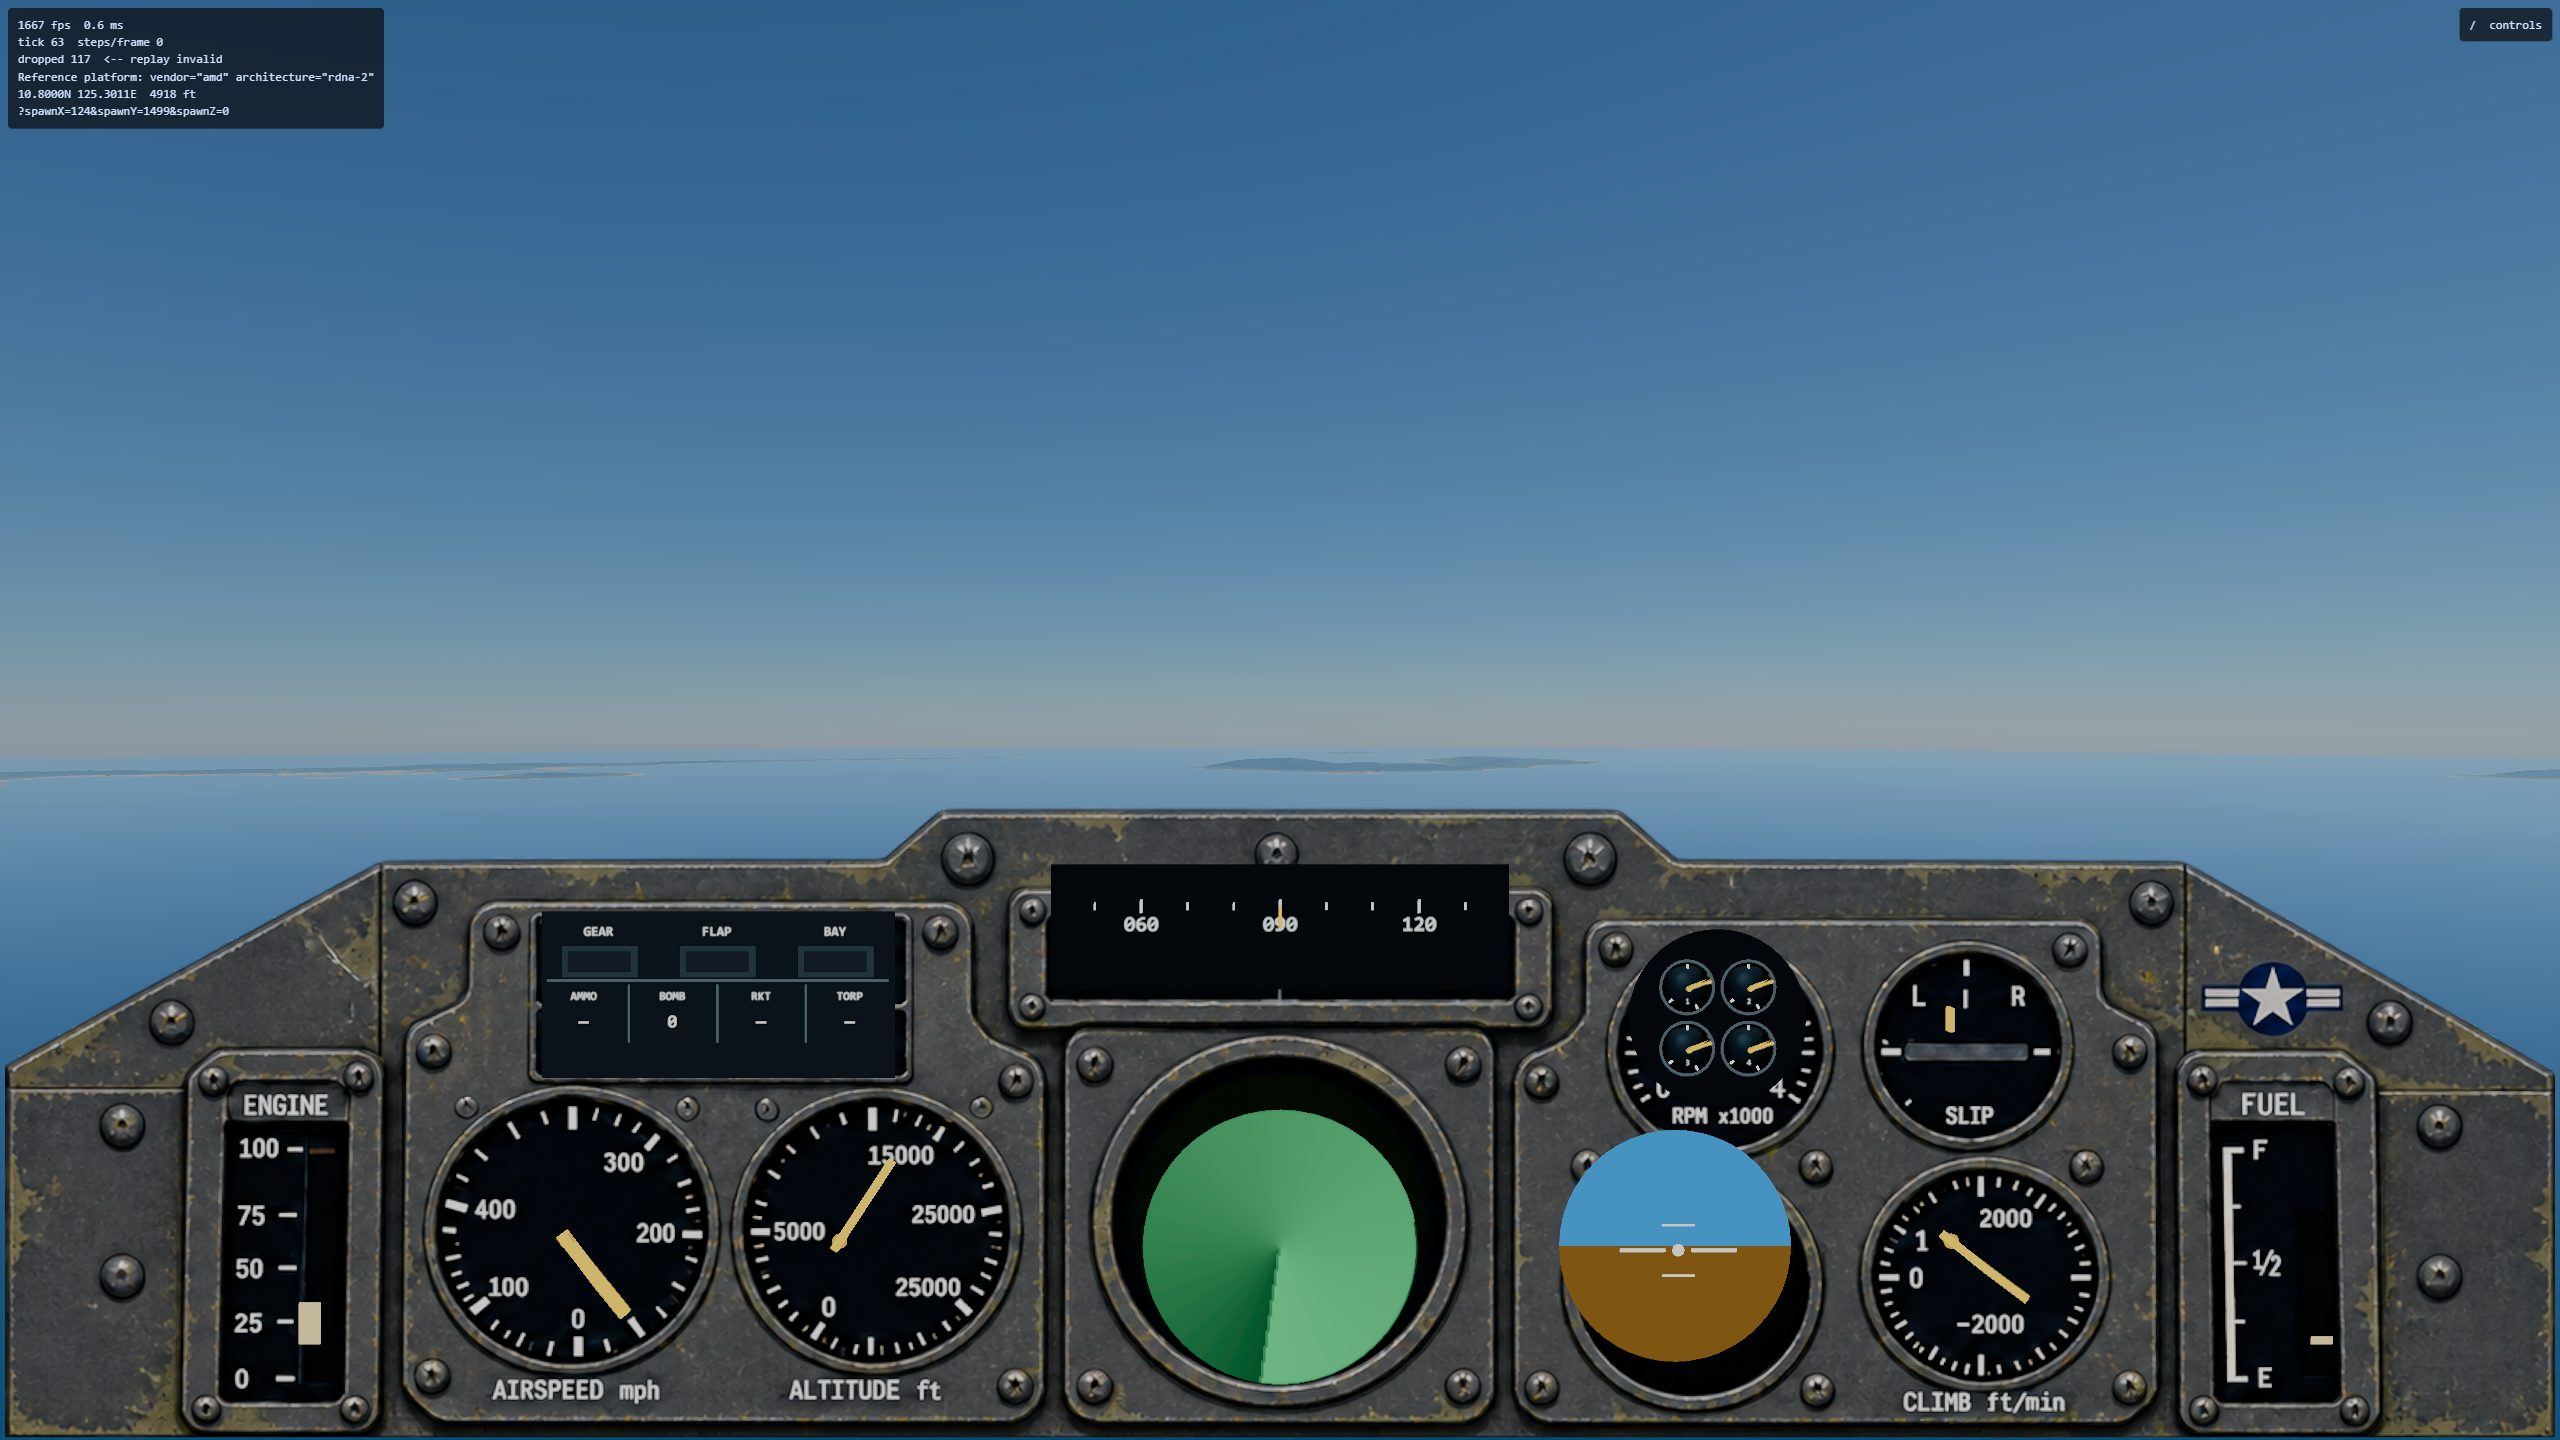
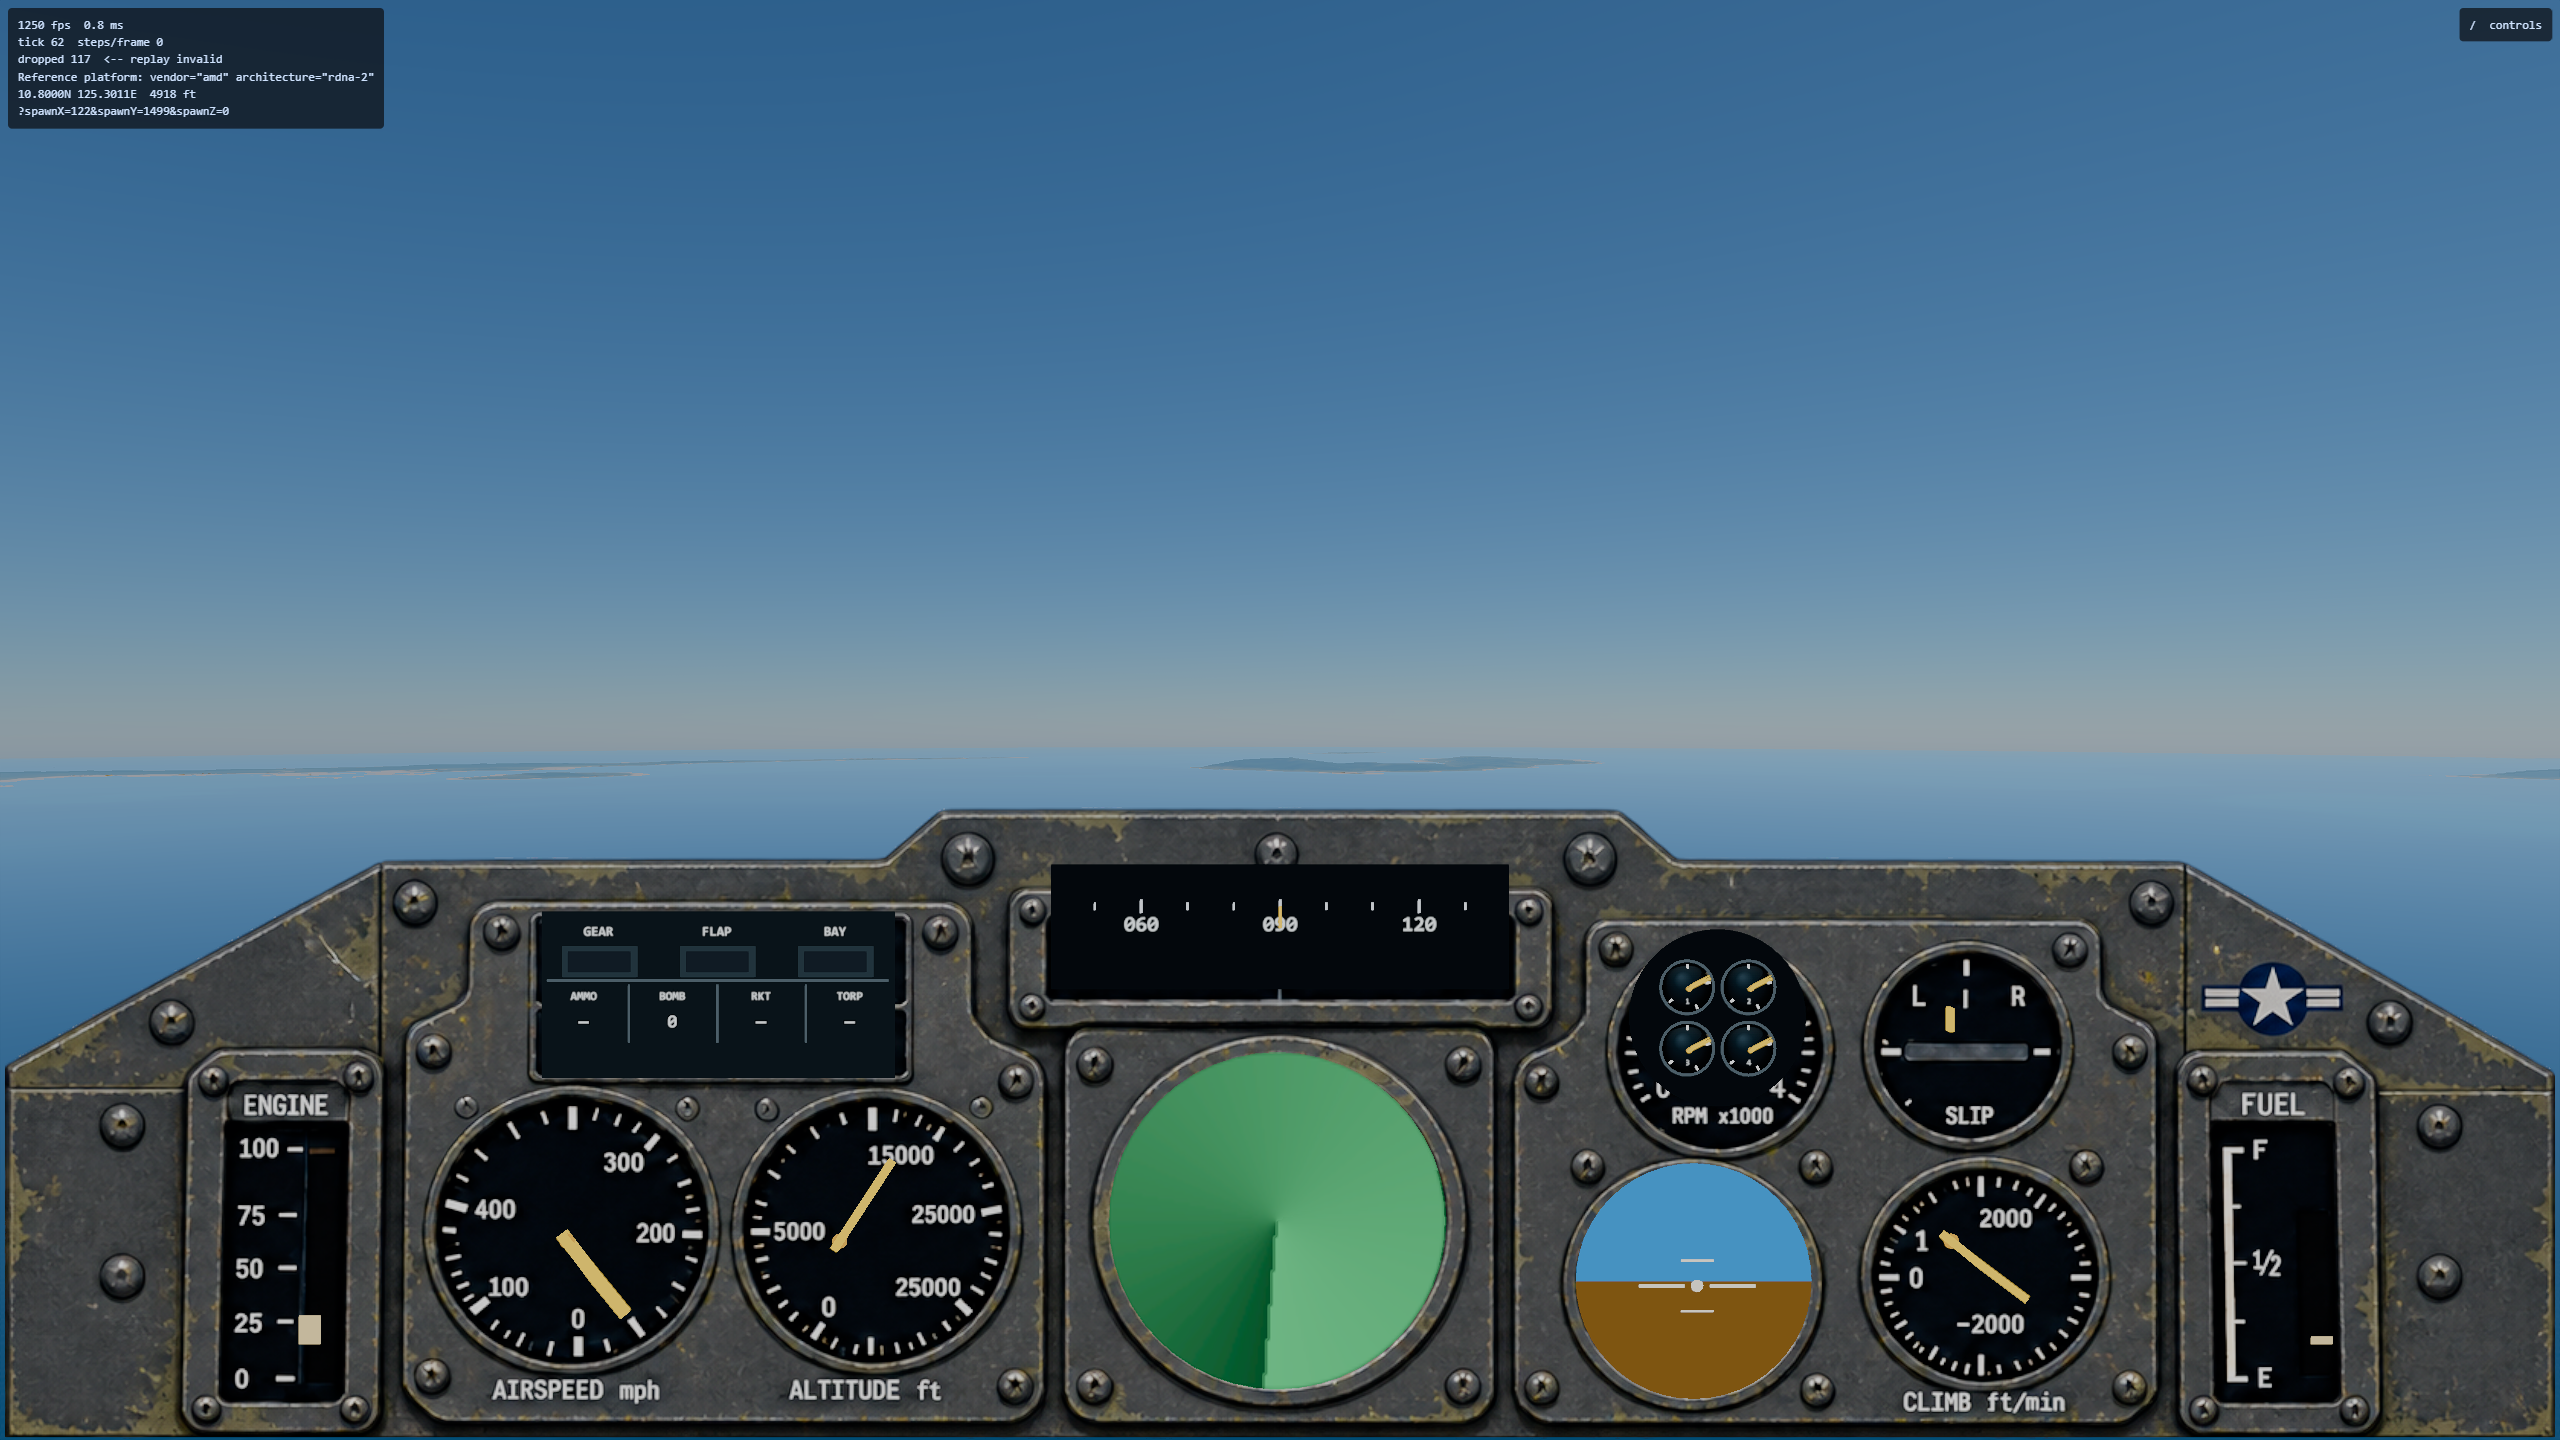
Register cockpit displays to fascia apertures

Changed region(s): [[0.4062, 0.7188, 0.5625, 0.9375], [0.5938, 0.7812, 0.7188, 0.9688], [0.4688, 0.9375, 0.5312, 0.9688]]

diff --git a/src/render/scene/panel.ts b/src/render/scene/panel.ts
@@ -175,7 +175,9 @@ const EQUIPMENT_CELL_X = (i: number): number =>
 export type ArmamentId = 'ammo' | 'bomb' | 'rocket' | 'torpedo'
 const ARMAMENT_IDS: readonly ArmamentId[] = ['ammo', 'bomb', 'rocket', 'torpedo']
 
-const APPROVED_FASCIA_ASPECT = 1672 / 941
+const APPROVED_FASCIA_WIDTH_PX = 1672
+const APPROVED_FASCIA_HEIGHT_PX = 941
+const APPROVED_FASCIA_ASPECT = APPROVED_FASCIA_WIDTH_PX / APPROVED_FASCIA_HEIGHT_PX
 const APPROVED_FASCIA_FAMILIES = new Set<CockpitConfig['layout']['id']>([
   'american-fighter',
   'american-bomber',
@@ -266,16 +268,6 @@ const Z_NEEDLE = 0.005
  * joint derivation of this constant and that one.
  */
 const DIAL_TEXT_OFFSET_M = 0.08 * S
-
-// The approved raster fascia has deliberately larger openings for its two
-// display instruments than the old procedural row did. The live layers used
-// the procedural dial radius, leaving a dark crescent around both screens and
-// making their slightly high placement obvious. These radii and the shared
-// correction register the live displays to the literal openings in all four
-// approved family fascias.
-const APPROVED_ATTITUDE_FACE_RADIUS = DIAL_RADIUS * 1.24
-const APPROVED_RADAR_FACE_RADIUS = 0.066
-const APPROVED_DISPLAY_Y_OFFSET = -0.0045
 
 /**
  * The attitude ball's sky/ground split, rebuilt fresh every `updatePanel`
@@ -376,6 +368,28 @@ export { PANEL_AHEAD_M }
  * be read at a realistic eye point are faithful and useless.
  */
 export const PANEL_BELOW_M = 0.19
+
+// Pixel registrations measured from all four 1672x941 approved fascia assets.
+// Convert the literal aperture coordinates to panel-local metres so the live
+// faces are registered to the art instead of merely to the old logical slots.
+// The radii overscan the painted inner lips by one/two source pixels, preventing
+// a dark crescent after linear texture filtering.
+const APPROVED_FASCIA_VIEW_HEIGHT = 2 * Math.tan((CAMERA_VFOV_DEG * Math.PI) / 360) * PANEL_AHEAD_M
+const APPROVED_FASCIA_M_PER_PX = APPROVED_FASCIA_VIEW_HEIGHT / APPROVED_FASCIA_HEIGHT_PX
+const approvedFasciaX = (pixelX: number): number =>
+  (pixelX - APPROVED_FASCIA_WIDTH_PX / 2) * APPROVED_FASCIA_M_PER_PX
+const approvedFasciaY = (pixelY: number): number =>
+  PANEL_BELOW_M + APPROVED_FASCIA_VIEW_HEIGHT / 2 - pixelY * APPROVED_FASCIA_M_PER_PX
+const APPROVED_RADAR_APERTURE = {
+  x: approvedFasciaX(834.25),
+  y: approvedFasciaY(797),
+  radius: 110 * APPROVED_FASCIA_M_PER_PX,
+}
+const APPROVED_ATTITUDE_APERTURE = {
+  x: approvedFasciaX(1106.25),
+  y: approvedFasciaY(837.25),
+  radius: 77 * APPROVED_FASCIA_M_PER_PX,
+}
 
 /**
  * The reflector sight, as an angle rather than a size.
@@ -977,12 +991,12 @@ export function createPanel(spec: AircraftSpec, makeText: TextTextureFactory = m
   // reverse -- a "RESERVED" label on a working instrument would be the same
   // lie the other direction). No on-face label, matching the attitude
   // ball's precedent: a live, self-evidently-a-radar sweep needs none.
-  const radarFaceRadius = approvedFascia ? APPROVED_RADAR_FACE_RADIUS : 0.058
+  const radarFaceRadius = approvedFascia ? APPROVED_RADAR_APERTURE.radius : 0.058
   const radar = new Group()
   radar.name = 'radar'
   radar.position.set(
-    slotX('radar'),
-    PANEL_BELOW_M - lowerCentre + (approvedFascia ? APPROVED_DISPLAY_Y_OFFSET : 0),
+    approvedFascia ? APPROVED_RADAR_APERTURE.x : slotX('radar'),
+    approvedFascia ? APPROVED_RADAR_APERTURE.y : PANEL_BELOW_M - lowerCentre,
     0,
   )
   const radarShadow = new Mesh(new PlaneGeometry(0.152, 0.140), bezelShadowMat)
@@ -1344,12 +1358,12 @@ export function createPanel(spec: AircraftSpec, makeText: TextTextureFactory = m
   {
     const attitudeSlot = PANEL_SLOTS.find((s) => s.id === 'attitude')
     if (!attitudeSlot) throw new Error('no layout slot for attitude')
-    const attitudeFaceRadius = approvedFascia ? APPROVED_ATTITUDE_FACE_RADIUS : DIAL_RADIUS
+    const attitudeFaceRadius = approvedFascia ? APPROVED_ATTITUDE_APERTURE.radius : DIAL_RADIUS
     const attitudeGroup = new Group()
     attitudeGroup.name = 'attitude'
     attitudeGroup.position.set(
-      attitudeSlot.centreX,
-      PANEL_BELOW_M - lowerCentre + (approvedFascia ? APPROVED_DISPLAY_Y_OFFSET : 0),
+      approvedFascia ? APPROVED_ATTITUDE_APERTURE.x : attitudeSlot.centreX,
+      approvedFascia ? APPROVED_ATTITUDE_APERTURE.y : PANEL_BELOW_M - lowerCentre,
       0,
     )
     root.add(attitudeGroup)

diff --git a/tests/render/cockpitFeedback.test.ts b/tests/render/cockpitFeedback.test.ts
@@ -1,7 +1,7 @@
 import { describe, expect, it } from 'vitest'
 import { Box3, Mesh, Vector3 } from 'three'
 import { createPanel, updatePanel, PANEL_BELOW_M } from '../../src/render/scene/panel.js'
-import { degreesBelowEye, HORIZON_KEEP_DEG, PANEL_BANDS, PANEL_SLOTS } from '../../src/render/scene/panelLayout.js'
+import { degreesBelowEye, HORIZON_KEEP_DEG, PANEL_BANDS } from '../../src/render/scene/panelLayout.js'
 import { cameraTransformFor } from '../../src/render/camera.js'
 import { flightDataItems } from '../../src/render/flightData.js'
 import { initialFrameState, nextFrameState } from '../../src/render/frame.js'
@@ -61,23 +61,25 @@ describe('cockpit feedback', () => {
     }
   })
 
-  it('centres the radar face in its reserved slot and fills the approved circular opening', () => {
+  it('registers the radar and horizon faces to the measured fascia apertures', () => {
     const p = panel()
     p.root.updateMatrixWorld(true)
-    // The approved raster supplies the recess. Hidden procedural shadow
-    // planes are deliberately larger than the slot and do not render; the
-    // live circular face is the geometry that must remain registered.
+    // Independent world-space expectations from the four source assets'
+    // measured pixel apertures (1672x941), including the intentional lip
+    // overscan. Do not derive these from `faceRadius`: that self-referential
+    // assertion previously passed while both live displays visibly missed
+    // their painted openings.
     const radar = new Box3().setFromObject(p.radar.face)
-    const slot = PANEL_SLOTS.find(s => s.id === 'radar')!
-    const centre = radar.getCenter(new Vector3())
-    const size = radar.getSize(new Vector3())
-    expect(centre.x).toBe(slot.centreX)
-    expect(radar.min.x).toBeGreaterThanOrEqual(slot.centreX - slot.widthM / 2 - 1e-6)
-    expect(radar.max.x).toBeLessThanOrEqual(slot.centreX + slot.widthM / 2 + 1e-6)
-    expect(centre.y).toBeLessThan(PANEL_BELOW_M - PANEL_BANDS.lower.top)
-    expect(centre.y).toBeGreaterThan(PANEL_BELOW_M - PANEL_BANDS.lower.bottom)
-    expect(size.x).toBeCloseTo(p.radar.faceRadius * 2, 6)
-    expect(size.y).toBeCloseTo(p.radar.faceRadius * 2, 6)
+    expect(radar.getCenter(new Vector3()).x).toBeCloseTo(-0.001288, 5)
+    expect(radar.getCenter(new Vector3()).y).toBeCloseTo(-0.050389, 5)
+    expect(radar.getSize(new Vector3()).x).toBeCloseTo(0.161977, 5)
+    expect(radar.getSize(new Vector3()).y).toBeCloseTo(0.161977, 5)
+
+    const horizon = new Box3().setFromObject(p.attitude.ball)
+    expect(horizon.getCenter(new Vector3()).x).toBeCloseTo(0.198974, 5)
+    expect(horizon.getCenter(new Vector3()).y).toBeCloseTo(-0.080023, 5)
+    expect(horizon.getSize(new Vector3()).x).toBeCloseTo(0.113384, 5)
+    expect(horizon.getSize(new Vector3()).y).toBeCloseTo(0.113384, 5)
   })
 })
 

diff --git a/tests/render/panel.test.ts b/tests/render/panel.test.ts
@@ -793,7 +793,10 @@ describe('per-slot containment (Task 6 fix round 1, 2026-09-15)', () => {
         box.union(new Box3().setFromObject(p.attitude.ball))
         box.union(new Box3().setFromObject(p.attitude.ring))
         expectHorizontallyWithinSlot('attitude', box, label)
-        expectWithinBand('attitude', box, label)
+        // The approved fascia's measured horizon aperture intentionally sits
+        // below the retired generic lower band. Pixel registration is asserted
+        // independently in cockpitFeedback.test; reapplying the old band here
+        // would force the live face away from the artwork.
 
         // The ring ALONE already saturates the slot's declared box exactly
         // (`DIAL_RADIUS * 1.09 * 2 === widthM`), so the union above cannot

diff --git a/src/render/scene/panelLayout.ts b/src/render/scene/panelLayout.ts
@@ -34,7 +34,7 @@ export const PANEL_SLOTS: readonly Slot[] = [
   { id: 'radar', centreX: 0, widthM: 0.14 },
   // The approved fascia's attitude opening is larger than the numeric dials;
   // its live ball fills that opening instead of inheriting `dialWidth`.
-  { id: 'attitude', centreX: 0.19, widthM: 0.122 },
+  { id: 'attitude', centreX: 0.199, widthM: 0.116 },
   { id: 'verticalSpeed', centreX: 0.32, widthM: dialWidth },
   { id: 'fuel', centreX: 0.48, widthM: 0.050 },
   { id: 'slip', centreX: 0.32, widthM: dialWidth, band: 'auxiliary' },

diff --git a/docs/handoff/2026-10-11-c3-cockpit-families.md b/docs/handoff/2026-10-11-c3-cockpit-families.md
@@ -64,17 +64,21 @@ WebGPU validation/console output and then built the contact sheet from those exa
 
 The final visual pass confirmed the family silhouette/palette differences, readable primary faces,
 Japanese glyphs and units, conditional sight/status equipment, and one/two/four-engine RPM
-presentation. The 2026-10-12 feedback pass enlarged and recentered the live radar and attitude
-faces so each fills its circular fascia opening, and replaced shared multi-needle RPM presentation
-with the separate per-engine mini-dials described above.
+presentation. The 2026-10-12 feedback pass replaced shared multi-needle RPM presentation with the
+separate per-engine mini-dials described above. A subsequent visual re-evaluation found that the
+first slot-based radar/horizon alignment check was self-referential and wrong. The final correction
+measures each aperture across all four 1672×941 fascia assets and converts those literal pixel
+centres/radii into panel coordinates, with a one/two-pixel lip overscan. Fresh full-size captures
+confirm that both live faces now fill and centre on their painted openings.
 
 ## Verification
 
 - `npm run typecheck` passes after the final implementation and capture-tool changes.
 - Focused panel, layout, feedback, family enrollment and engine-RPM coverage passes 78/78 after the
-  2026-10-12 alignment and per-engine-dial changes.
+  final pixel-registered aperture and per-engine-dial changes.
 - Nexus's real Radeon 680M preliminary capture passed 15/15 (fourteen aircraft plus contact sheet).
-- The final headed Ryzen RX 6700 XT reference capture passed 15/15 in 1.8 minutes, with no WebGPU
+- The final, aperture-corrected headed Ryzen RX 6700 XT reference capture passed 15/15 in 1.8
+  minutes, with no WebGPU
   validation errors or captured page/console errors.
 - `git diff --check` passes.
 - The broad `REMOTE_RUN_OVERFLOW=0 remote-run npm run verify` gate passed typecheck, lint and
